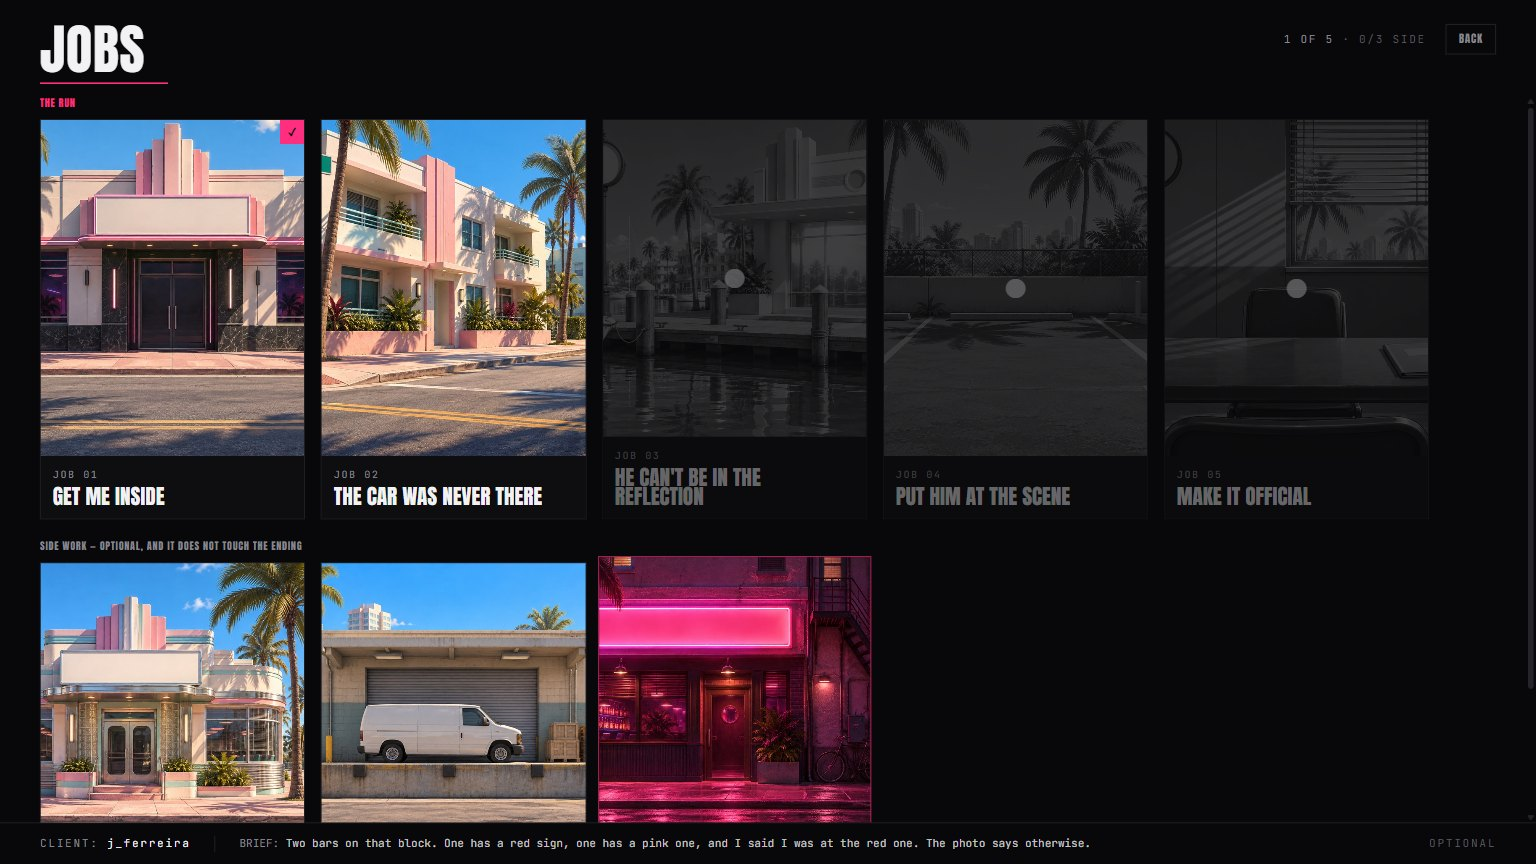
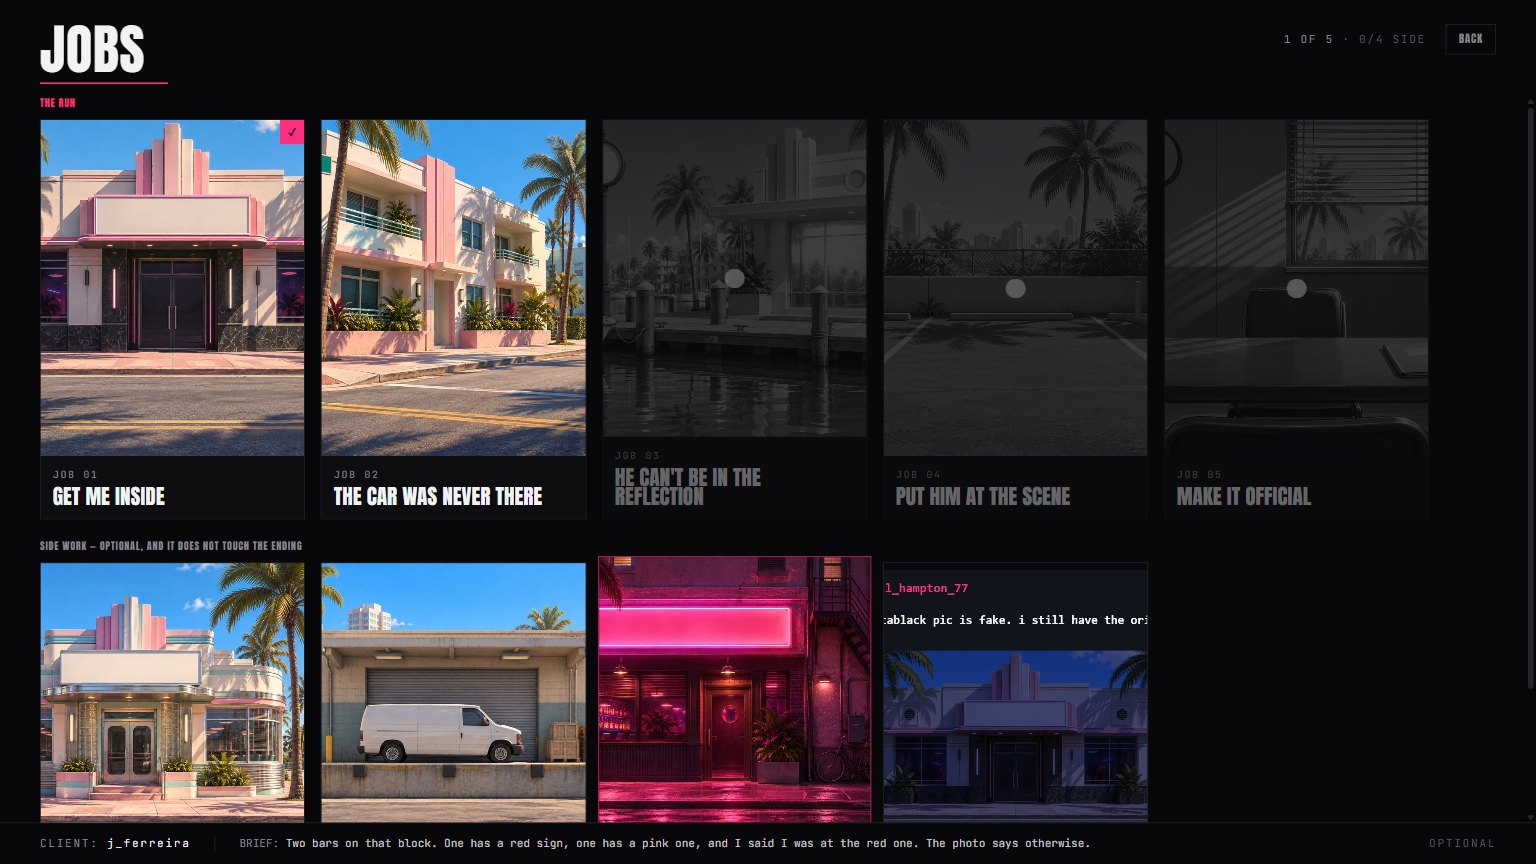
Retake the screenshots against the game that exists
Every shot in the README predated the faces and the ninth job. The feed was a
column of handles with no portraits, the board showed eight cards, and the one
labelled "he zooms in on the thing you thought nobody would check" was caught
four words into his line typing itself out.

All of them again, plus one new: the ninth job's photograph, which is a
screenshot of him with his own face on it.

The board card for that job needed its own crop. The cards are portrait and the
render is landscape, so object-cover took the middle strip and cut his handle and
his line in half — it read as a broken image rather than as a post. It is cropped
to the card's own shape now, anchored on the left edge where the face and the
handle actually are.

Changed region(s): [[0.5625, 0.75, 0.75, 0.9688], [0.5625, 0.6562, 0.6562, 0.7188]]

diff --git a/README.md b/README.md
@@ -142,6 +142,8 @@ The **side work** covers the parts of the editor the run never needs: filter pre
 hue (*The sign was red* — the only job whose answer is a slider that turns every colour at once,
 on the only photograph where that is honest, because it is a street lit by one neon sign).
 
+![The ninth job: the photograph is a screenshot of him](docs/shots/9-him-post.jpg)
+
 And one that is not a photograph at all. **He never posted that** hands you a screenshot of Cal
 Hampton's own post about your very first forgery, and asks you to discredit him with it. Rewrite
 what he said — the game asks you what you typed, because the editor returns pixels and not words
